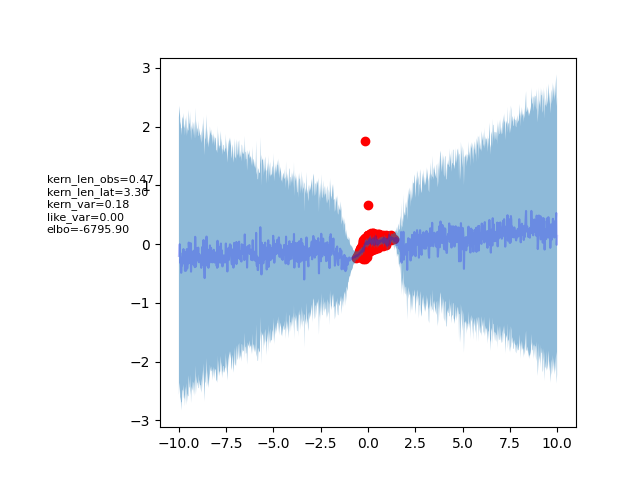
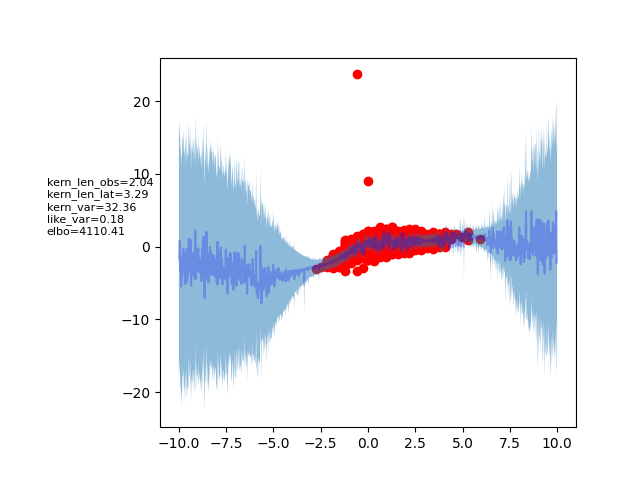
initiualisation of variance for conditional model changed

diff --git a/train.py b/train.py
@@ -71,7 +71,9 @@ def train(
         tf.print(f"Found: ker_len: {found_lengthscale}, ker_var: {found_kern_var_0}, like_var: {found_lik_var}")
 
         X_mean_init = y - m.predict_f(x)[0]
-        X_var_init = tf.math.square(X_mean_init - tf.math.reduce_mean(X_mean_init, axis=0)) + 1
+        X_var_init = tf.cast(
+            np.random.uniform(0, 0.1, (y.shape[0], latent_dim)), default_float()
+        )
         # need a lengthscale for the latent dim as well as for the oberved
         # Lengthscale of observed is slightly larger
         sq_exp = gpflow.kernels.SquaredExponential(lengthscales=[found_lengthscale] + [found_lengthscale * 0.67])
